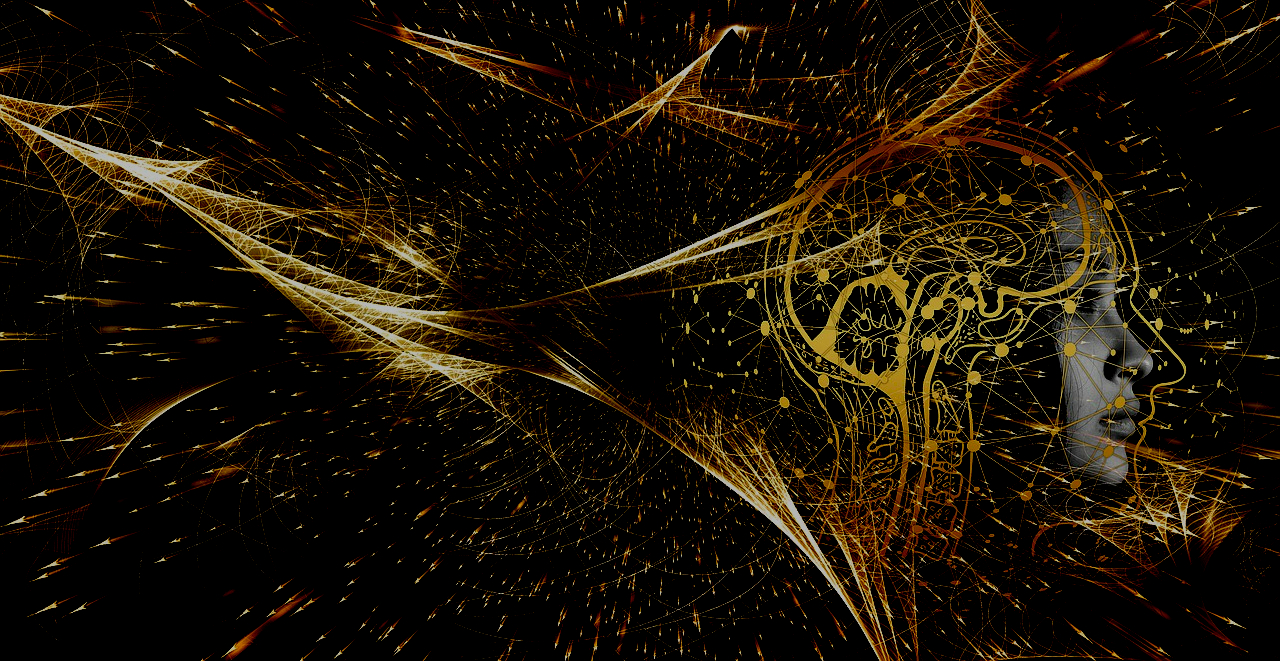
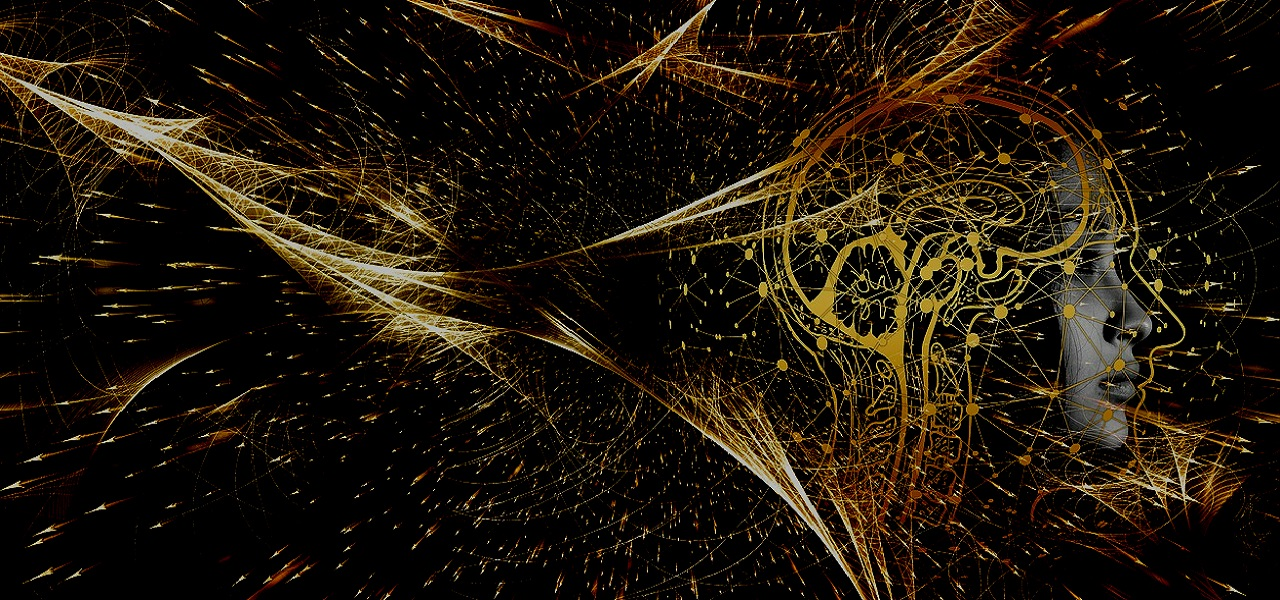
圖片輪播

diff --git a/script.js b/script.js
@@ -2,4 +2,76 @@ window.addEventListener("scroll", function(){
     const header = document.querySelector("#header");
     header.classList.toggle('sticky', window.scrollY > 0);
 });
+
 var imgSlidesImg = document.getElementsByClassName('imgSlidesImg');
+var leftBtn = document.getElementsByClassName('fa-chevron-circle-left')[0];
+var rightBtn = document.getElementsByClassName('fa-chevron-circle-right')[0];
+var dots = document.getElementsByClassName('dots')[0];
+var dot = document.getElementsByClassName('dot');
+var html = "";
+var imgIdx = 0;
+
+rightBtn.addEventListener('click',()=>{
+    imgIdx++;
+    clearColor();
+    if(imgIdx>imgSlidesImg.length-1){
+        imgIdx=0;
+    }
+    for(var i=0;i<imgSlidesImg.length;i++){
+        
+        imgSlidesImg[i].style.transform="translateX(-"+imgIdx+"00%)";
+        
+    }
+    dot[imgIdx].style.background = "#E66756";
+})
+leftBtn.addEventListener('click',()=>{
+    imgIdx--;
+    clearColor();
+    if(imgIdx<0){
+        imgIdx=imgSlidesImg.length-1;
+    }
+    for(var i=0;i<imgSlidesImg.length;i++){
+        
+        imgSlidesImg[i].style.transform="translateX(-"+imgIdx+"00%)";
+        
+    }
+    dot[imgIdx].style.background = "#E66756";
+})
+for(var d=0;d<imgSlidesImg.length;d++){
+    html+='<a href="javascript:;" class="dot dot'+d+'"></a>';
+}
+dots.innerHTML = html;
+console.log(dots.innerHTML);
+
+dot[0].style.background = "#E66756";
+function clearColor(){
+    for(var c=0;c<imgSlidesImg.length;c++){
+        dot[c].style.background="#fff";
+    }
+}
+
+for(var x=0;x<dot.length;x++){
+    dot[x].addEventListener("click",switchImg);
+}
+function switchImg(){
+    clearColor();
+    console.log(Number(this.className.substr(7)));
+    imgIdx = Number(this.className.substr(7));
+    dot[imgIdx].style.background = "#E66756";
+    for(var a=0;a<imgSlidesImg.length;a++){
+        imgSlidesImg[a].style.transform="translateX(-"+imgIdx+"00%)";
+    }
+}
+
+setInterval(()=>{
+    imgIdx++;
+    if(imgIdx>imgSlidesImg.length-1){
+        imgIdx=0;
+    }
+    for(var t=0;t<imgSlidesImg.length;t++){
+        imgSlidesImg[t].style.transform="translateX(-"+imgIdx+"00%)";
+        
+    }
+    clearColor();
+    dot[imgIdx].style.background = "#E66756";
+},10000)

diff --git a/index.html b/index.html
@@ -63,13 +63,17 @@
     <i class="fas fa-chevron-circle-left"></i>
     <i class="fas fa-chevron-circle-right"></i>
    
-        <img src="images/banner.jpg" alt="" class="imgSlidesImg">
-        <img src="images/banner.jpg" alt="" class="imgSlidesImg">
+    <img src="images/banner.jpg" alt="" class="imgSlidesImg">
+    <img src="images/banner.jpg" alt="" class="imgSlidesImg">
+    <img src="images/banner.jpg" alt="" class="imgSlidesImg">
+    <img src="images/banner.jpg" alt="" class="imgSlidesImg">
+    <img src="images/banner.jpg" alt="" class="imgSlidesImg">
+
+
+        
    
 
-    <div class="dots">
-        <a href="javascript:;" class="dot"></a>
-    </div>
+    <div class="dots"></div>
     
 </div>
 </body>

diff --git a/style.css b/style.css
@@ -253,10 +253,10 @@ header .myAccount ol li:nth-child(1):hover{
 }
 
 .imgSlides  img{
-    width: 100%;
-    object-fit: cover;
-    height: 100vh;
-    transform:translateX(-50%);
+    min-width: 100%;
+    object-fit: contain;
+    transition: .5s;
+    height: auto;
 }
 .imgSlides >.fa-chevron-circle-left{
     position: absolute;
@@ -297,4 +297,5 @@ header .myAccount ol li:nth-child(1):hover{
     height: 15px;
     background: #fff;
     border-radius: 50%;
+    margin: 0 5px;
 }
